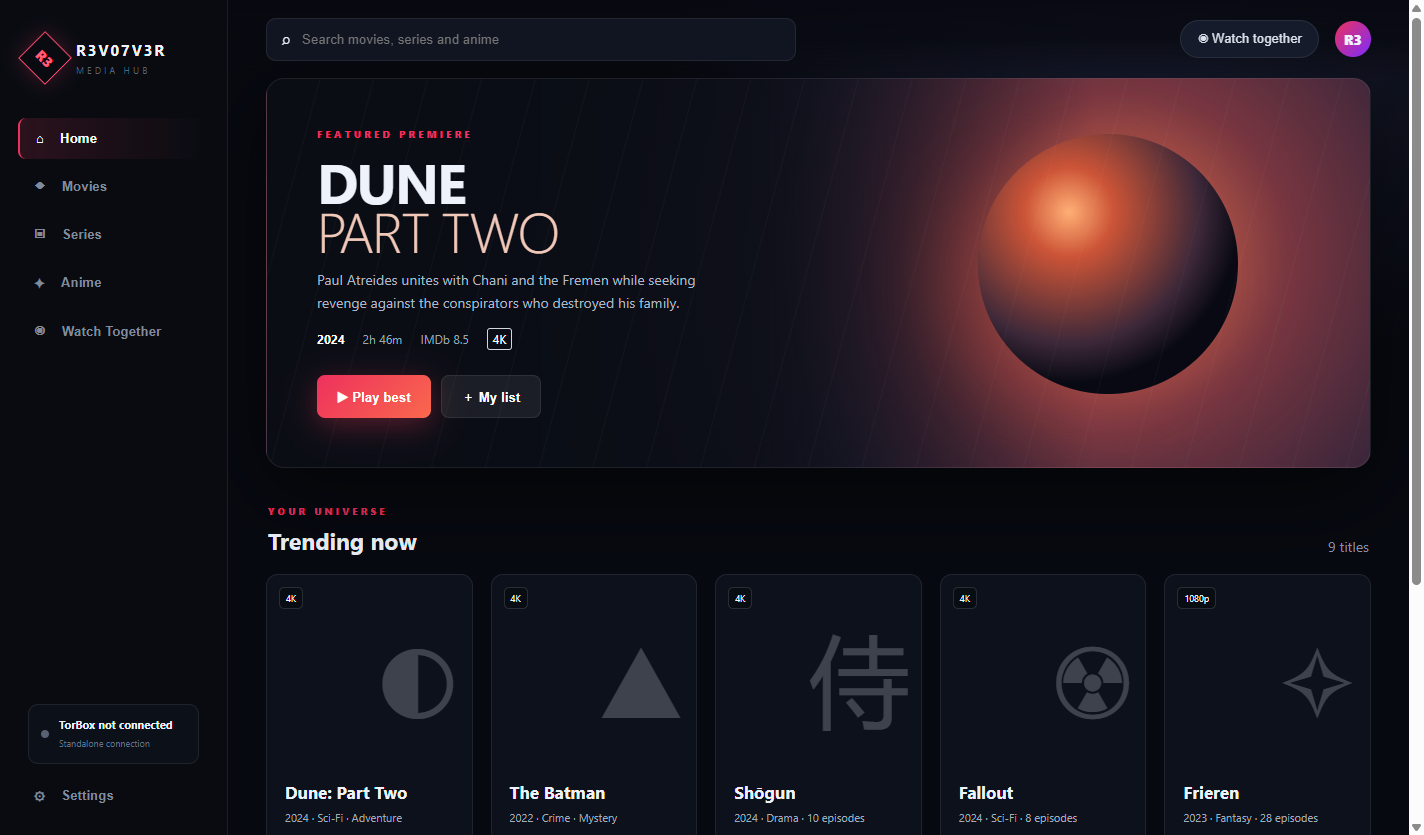
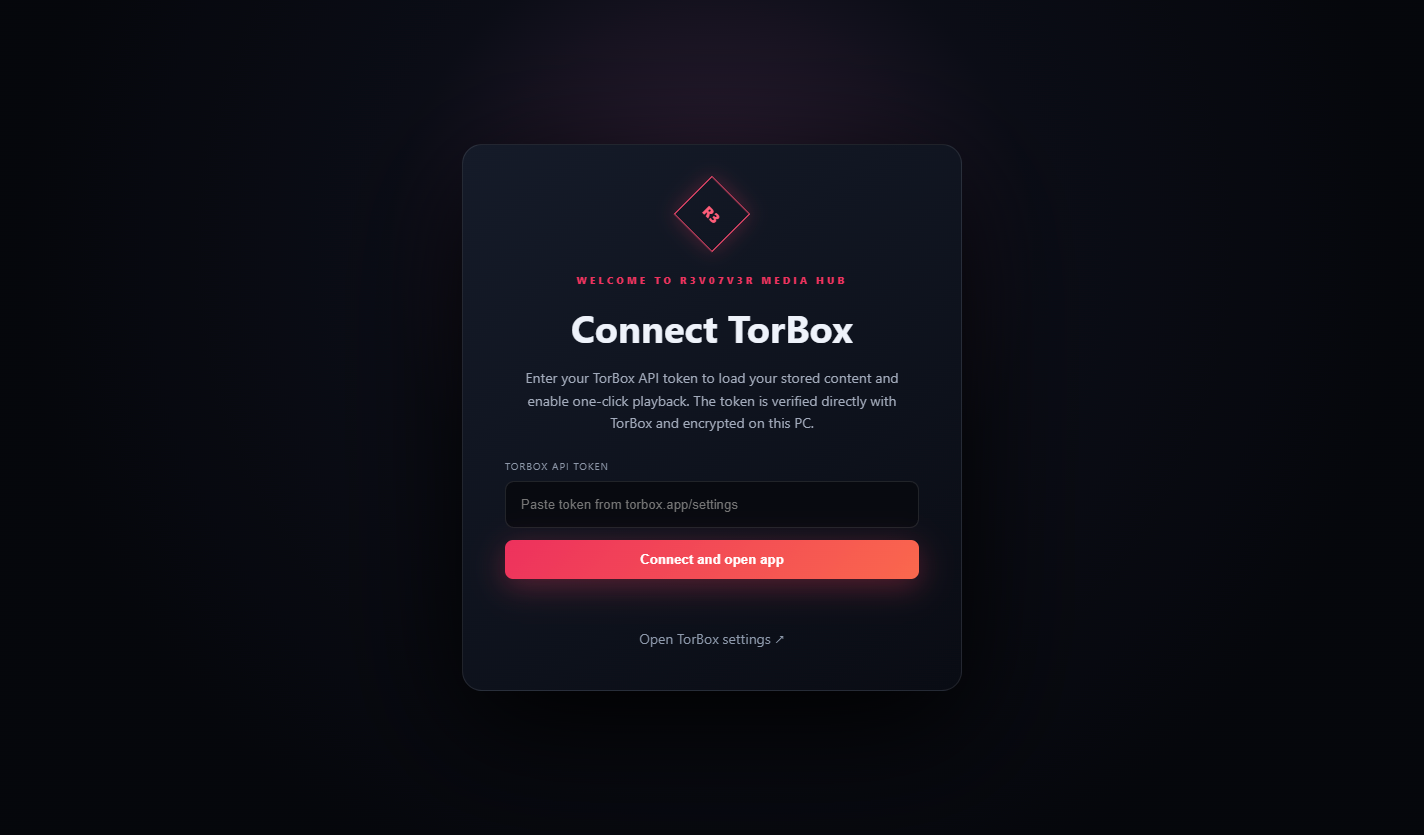
feat: replace demo data with live TorBox media flow

diff --git a/src/renderer.js b/src/renderer.js
@@ -1,19 +1,19 @@
-const catalog=[
-{title:'Dune: Part Two',type:'movie',year:2024,detail:'Sci-Fi · Adventure',symbol:'◐',c1:'#c76440',c2:'#262038',quality:'4K'},
-{title:'The Batman',type:'movie',year:2022,detail:'Crime · Mystery',symbol:'▲',c1:'#7e1d24',c2:'#0b0d14',quality:'4K'},
-{title:'Shōgun',type:'series',year:2024,detail:'Drama · 10 episodes',symbol:'侍',c1:'#a33724',c2:'#16151c',quality:'4K'},
-{title:'Fallout',type:'series',year:2024,detail:'Sci-Fi · 8 episodes',symbol:'☢',c1:'#dda637',c2:'#26354a',quality:'4K'},
-{title:'Frieren',type:'anime',year:2023,detail:'Fantasy · 28 episodes',symbol:'✧',c1:'#5e82b4',c2:'#25213c',quality:'1080p'},
-{title:'Solo Leveling',type:'anime',year:2024,detail:'Action · 12 episodes',symbol:'⚔',c1:'#5b39ac',c2:'#101a35',quality:'1080p'},
-{title:'Furiosa',type:'movie',year:2024,detail:'Action · Adventure',symbol:'☼',c1:'#c97631',c2:'#35221d',quality:'4K'},
-{title:'3 Body Problem',type:'series',year:2024,detail:'Sci-Fi · 8 episodes',symbol:'◎',c1:'#386879',c2:'#111926',quality:'4K'},
-{title:'Kaiju No. 8',type:'anime',year:2024,detail:'Action · 12 episodes',symbol:'怪',c1:'#3b725a',c2:'#1e2631',quality:'1080p'}];
-let section='home';
-const $=s=>document.querySelector(s);const $$=s=>[...document.querySelectorAll(s)];
-function render(){const q=$('#search').value.toLowerCase().trim();const list=catalog.filter(x=>(section==='home'||x.type===section)&&(!q||`${x.title} ${x.year}`.toLowerCase().includes(q)));$('#catalog').innerHTML=list.map(x=>`<article class="card" data-title="${x.title}"><div class="card-art" data-symbol="${x.symbol}" style="--c1:${x.c1};--c2:${x.c2}"><span class="badge">${x.quality}</span><div><h3>${x.title}</h3><p>${x.year} · ${x.detail}</p></div></div></article>`).join('');$('#resultCount').textContent=`${list.length} titles`;$('#sectionTitle').textContent=q?'Search results':section==='home'?'Trending now':section[0].toUpperCase()+section.slice(1);$$('.card').forEach(c=>c.onclick=()=>showTitle(c.dataset.title));}
-function showTitle(title){openModal(`<span class="eyebrow">READY TO RESOLVE</span><h2>${title}</h2><p>Connect your TorBox account to resolve cached sources and select the best compatible release automatically.</p><div class="button-row"><button class="primary" id="playModal">▶ Play best</button><button class="secondary">Browse sources</button></div><div class="status-line" id="playStatus"></div>`);$('#playModal').onclick=async()=>{const s=await window.mediaHub.settingsStatus();$('#playStatus').textContent=s.torboxConfigured?'TorBox is connected. Stream-source integration is the next build milestone.':'TorBox is not connected. Open Settings to add your API token.'}}
+const $=s=>document.querySelector(s);const $$=s=>[...document.querySelectorAll(s)];const esc=v=>String(v??'').replace(/[&<>"']/g,c=>({'&':'&amp;','<':'&lt;','>':'&gt;','"':'&quot;',"'":'&#39;'}[c]));
+let section='home',items=[],library=[];const cache={};
+function status(message,error=false){$('#connectStatus').textContent=message;$('#connectStatus').style.color=error?'#ff7893':''}
+async function start(){const result=await window.mediaHub.bootstrap();if(result.configured){library=Array.isArray(result.library)?result.library:[];showApp(result.user);await loadSection('home')}else{$('#onboarding').classList.remove('hidden');$('#app').classList.add('hidden');if(result.error)status(result.error,true)}}
+function showApp(user={}){$('#onboarding').classList.add('hidden');$('#app').classList.remove('hidden');$('#accountName').textContent=user.email||user.username||'TorBox connected'}
+$('#torboxLink').onclick=e=>{e.preventDefault();window.mediaHub.openExternal('https://torbox.app/settings')};
+$('#connectButton').onclick=async()=>{const button=$('#connectButton');button.disabled=true;button.textContent='Verifying with TorBox…';status('');const result=await window.mediaHub.connectTorBox($('#setupToken').value);button.disabled=false;button.textContent='Connect and open app';if(!result.ok)return status(result.message,true);showApp(result.user);const boot=await window.mediaHub.bootstrap();library=Array.isArray(boot.library)?boot.library:[];await loadSection('home')};
+$('#disconnect').onclick=async()=>{await window.mediaHub.disconnect();location.reload()};
+async function fetchCatalog(kind){if(!cache[kind])cache[kind]=await window.mediaHub.catalog(kind);return cache[kind]}
+async function loadSection(next,force=false){section=next;$('#search').value='';$('#loading').classList.remove('hidden');$('#catalog').innerHTML='';$('#hero').classList.add('hidden');try{if(next==='library'){library=await window.mediaHub.library();items=library.map((x,i)=>({id:String(x.id||x.torrent_id||i),title:x.name||x.filename||`TorBox item ${i+1}`,type:'library',year:x.download_state||x.state||'',poster:x.poster||'',raw:x}));$('#sectionEyebrow').textContent='YOUR TORBOX';$('#sectionTitle').textContent='Stored content'}else if(next==='home'){if(force){delete cache.movie;delete cache.series;delete cache.anime}const [m,s,a]=await Promise.all([fetchCatalog('movie'),fetchCatalog('series'),fetchCatalog('anime')]);items=[...m.slice(0,15),...s.slice(0,15),...a.slice(0,15)];$('#sectionEyebrow').textContent='LIVE CATALOGS';$('#sectionTitle').textContent='Trending across everything';renderHero(items[0])}else{if(force)delete cache[next];items=await fetchCatalog(next);$('#sectionEyebrow').textContent='LIVE CATALOG';$('#sectionTitle').textContent=next==='movie'?'Movies':next==='series'?'Series':'Anime';renderHero(items[0])}render()}catch(error){showError(error.message)}finally{$('#loading').classList.add('hidden')}}
+function renderHero(item){if(!item)return;const hero=$('#hero');hero.classList.remove('hidden');hero.innerHTML=`<div class="hero-live" style="background-image:url('${esc(item.background||item.poster)}')"><div class="hero-copy"><span class="eyebrow">LIVE FEATURED TITLE</span><h1>${esc(item.title)}</h1><p>${esc(item.description||'Open this title for full details and available TorBox streams.')}</p><div class="meta"><b>${esc(item.year)}</b>${item.rating?`<span>IMDb ${esc(item.rating)}</span>`:''}<span>${esc(item.type.toUpperCase())}</span></div><div class="actions"><button class="primary" id="featuredOpen">▶ Open title</button></div></div></div>`;$('#featuredOpen').onclick=()=>openItem(item)}
+function render(){const q=$('#search').value.trim().toLowerCase();const visible=items.filter(x=>!q||`${x.title} ${x.year}`.toLowerCase().includes(q));$('#resultCount').textContent=`${visible.length} titles`;$('#catalog').innerHTML=visible.map((x,i)=>`<article class="card" data-index="${items.indexOf(x)}"><div class="card-art ${x.poster?'':'poster-fallback'}" style="${x.poster?`background-image:linear-gradient(0deg,#080a0ff5 0,transparent 67%),url('${esc(x.poster)}')`:''}"><span class="badge">${esc(x.type==='library'?(x.year||'TORBOX'):x.type.toUpperCase())}</span><div><h3>${esc(x.title)}</h3><p>${esc(x.year||'Available in TorBox')}</p></div></div></article>`).join('')||'<div class="error-box">No matching live titles were returned.</div>';$$('.card').forEach(card=>card.onclick=()=>openItem(items[Number(card.dataset.index)]))}
+async function openItem(item){if(item.type==='library')return playLibrary(item);openModal('<div class="loading">Loading title details…</div>');try{const meta=await window.mediaHub.meta(item.type,item.id);const episodes=(meta.videos||[]).filter(v=>(v.season??1)>0);const bg=meta.background||meta.poster;$('#modalBody').innerHTML=`<div class="detail-head" style="background-image:url('${esc(bg)}')"><div class="detail-copy"><span class="eyebrow">${esc(meta.type.toUpperCase())}</span><h2>${esc(meta.title)}</h2><div class="meta"><b>${esc(meta.year)}</b>${meta.rating?`<span>IMDb ${esc(meta.rating)}</span>`:''}</div></div></div><p>${esc(meta.description)}</p>${episodes.length?`<label>EPISODE</label><select id="episodeSelect" class="episode-select">${episodes.map((v,i)=>`<option value="${i}">S${v.season||1} E${v.episode||v.number||i+1} — ${esc(v.title||v.name||'Episode')}</option>`).join('')}</select>`:''}<div class="button-row"><button class="primary" id="playBest">▶ Play best</button></div><div class="status-line" id="playStatus"></div><div class="source-list" id="sourceList"></div>`;$('#playBest').onclick=()=>playBest(meta,episodes)}catch(error){showModalError(error.message)}}
+async function playBest(meta,episodes){const button=$('#playBest');button.disabled=true;button.textContent='Finding cached TorBox streams…';$('#playStatus').textContent='Querying Meteor and TorBox…';try{let id=meta.id;if(episodes.length)id=episodes[Number($('#episodeSelect').value)||0].id;const result=await window.mediaHub.resolve(meta.type,id);if(!result.best)throw new Error('No cached playable TorBox stream was returned for this title.');$('#sourceList').innerHTML=result.streams.slice(0,8).map(s=>`<div class="source">${esc(s.name||'TorBox stream')}<br>${esc(s.title||s.description||'')}</div>`).join('');$('#playStatus').textContent=`Opening best of ${result.streams.length} available streams…`;await window.mediaHub.play(result.best.url);$('#playStatus').textContent='Playback opened in your default video player.'}catch(error){$('#playStatus').textContent=error.message;$('#playStatus').style.color='#ff7893'}finally{button.disabled=false;button.textContent='▶ Play best'}}
+async function playLibrary(item){openModal(`<span class="eyebrow">YOUR TORBOX</span><h2>${esc(item.title)}</h2><p>This opens the largest video file in this completed TorBox item.</p><button class="primary" id="libraryPlay">▶ Play now</button><div class="status-line" id="libraryStatus"></div>`);$('#libraryPlay').onclick=async()=>{const b=$('#libraryPlay');b.disabled=true;b.textContent='Requesting stream…';try{await window.mediaHub.playLibrary(item.raw);$('#libraryStatus').textContent='Playback opened in your default video player.'}catch(error){$('#libraryStatus').textContent=error.message;$('#libraryStatus').style.color='#ff7893'}finally{b.disabled=false;b.textContent='▶ Play now'}}}
+function showError(message){$('#catalog').innerHTML=`<div class="error-box">${esc(message)}<br><button class="secondary" id="retryLoad">Retry</button></div>`;$('#retryLoad').onclick=()=>loadSection(section,true)}
 function openModal(html){$('#modalBody').innerHTML=html;$('#modal').classList.remove('hidden')}
-function settings(){openModal(`<span class="eyebrow">BACKEND CONNECTION</span><h2>Connect TorBox</h2><p>Your token is verified directly with TorBox and encrypted using Windows data protection. It is never sent to a media server.</p><div class="field"><label>TORBOX API TOKEN</label><input id="torboxToken" type="password" placeholder="Paste your TorBox API token"></div><div class="button-row"><button class="primary" id="saveToken">Verify & save</button><button class="secondary" id="testToken">Test saved connection</button></div><div class="status-line" id="settingsStatus"></div>`);$('#saveToken').onclick=async()=>{const b=$('#saveToken');b.disabled=true;b.textContent='Checking…';const r=await window.mediaHub.saveTorBox($('#torboxToken').value);$('#settingsStatus').textContent=r.message;b.disabled=false;b.textContent='Verify & save';refreshStatus();};$('#testToken').onclick=async()=>{$('#settingsStatus').textContent='Testing…';const r=await window.mediaHub.testTorBox();$('#settingsStatus').textContent=r.message;refreshStatus();}}
-function party(){const alphabet='ABCDEFGHJKLMNPQRSTUVWXYZ23456789';let raw='';for(let i=0;i<6;i++)raw+=alphabet[Math.floor(Math.random()*alphabet.length)];const code=raw.slice(0,3)+'-'+raw.slice(3);openModal(`<span class="eyebrow">WATCH TOGETHER</span><h2>Start a watch party</h2><p>Share this temporary room code with a friend using the same app. Playback synchronization requires the upcoming encrypted rendezvous service.</p><div class="room-code">${code}</div><div class="field"><label>OR JOIN A FRIEND</label><input id="joinCode" maxlength="7" placeholder="ABC-234"></div><div class="button-row"><button class="primary" id="joinRoom">Join room</button><button class="secondary" id="copyCode">Copy code</button></div><div class="status-line" id="partyStatus"></div>`);$('#copyCode').onclick=()=>{navigator.clipboard.writeText(code);$('#partyStatus').textContent='Code copied.'};$('#joinRoom').onclick=()=>{$('#partyStatus').textContent='Online watch-party synchronization is not enabled in this test build.'}}
-async function refreshStatus(){const s=await window.mediaHub.settingsStatus();$('#torboxDot').classList.toggle('on',s.torboxConfigured);$('#torboxState').textContent=s.torboxConfigured?'TorBox configured':'TorBox not connected'}
-$$('.nav-item[data-section]').forEach(b=>b.onclick=()=>{section=b.dataset.section;$$('.nav-item').forEach(x=>x.classList.remove('active'));b.classList.add('active');render()});$$('[data-action=settings]').forEach(b=>b.onclick=settings);$$('[data-action=party]').forEach(b=>b.onclick=party);$('#search').oninput=render;$('#closeModal').onclick=()=>$('#modal').classList.add('hidden');$('#modal').onclick=e=>{if(e.target===$('#modal'))$('#modal').classList.add('hidden')};$('#heroPlay').onclick=()=>showTitle('Dune: Part Two');render();refreshStatus();
+function showModalError(message){openModal(`<div class="error-box">${esc(message)}</div>`)}
+$$('.nav-item[data-section]').forEach(b=>b.onclick=()=>{$$('.nav-item').forEach(x=>x.classList.remove('active'));b.classList.add('active');loadSection(b.dataset.section)});$('#search').oninput=render;$('#refresh').onclick=()=>loadSection(section,true);$('#closeModal').onclick=()=>$('#modal').classList.add('hidden');$('#modal').onclick=e=>{if(e.target===$('#modal'))$('#modal').classList.add('hidden')};start();

diff --git a/src/index.html b/src/index.html
@@ -1,7 +1,5 @@
-<!doctype html><html lang="en"><head><meta charset="UTF-8"><meta name="viewport" content="width=device-width,initial-scale=1"><meta http-equiv="Content-Security-Policy" content="default-src 'self'; img-src 'self' https: data:; style-src 'self'; script-src 'self'; connect-src https://api.torbox.app"><title>R3V07V3R Media Hub</title><link rel="stylesheet" href="styles.css"></head><body>
-<div class="app-shell"><aside class="sidebar"><div class="brand"><div class="brandmark">R3</div><div><strong>R3V07V3R</strong><span>MEDIA HUB</span></div></div><nav id="nav"><button class="nav-item active" data-section="home">⌂ <span>Home</span></button><button class="nav-item" data-section="movie">◆ <span>Movies</span></button><button class="nav-item" data-section="series">▣ <span>Series</span></button><button class="nav-item" data-section="anime">✦ <span>Anime</span></button><button class="nav-item" data-action="party">◉ <span>Watch Together</span></button></nav><div class="sidebar-bottom"><div class="connection"><i id="torboxDot"></i><div><b id="torboxState">TorBox not connected</b><small>Standalone connection</small></div></div><button class="nav-item" data-action="settings">⚙ <span>Settings</span></button></div></aside>
-<main><header><div class="search"><span>⌕</span><input id="search" placeholder="Search movies, series and anime"></div><button class="party-pill" data-action="party">◉ Watch together</button><div class="avatar">R3</div></header>
-<section id="content"><div class="hero"><div class="hero-copy"><span class="eyebrow">FEATURED PREMIERE</span><h1>DUNE<br><em>PART TWO</em></h1><p>Paul Atreides unites with Chani and the Fremen while seeking revenge against the conspirators who destroyed his family.</p><div class="meta"><b>2024</b><span>2h 46m</span><span>IMDb 8.5</span><span class="quality">4K</span></div><div class="actions"><button class="primary" id="heroPlay">▶ Play best</button><button class="secondary">＋ My list</button></div></div><div class="orbital"></div></div>
-<div class="section-head"><div><span class="eyebrow" id="sectionEyebrow">YOUR UNIVERSE</span><h2 id="sectionTitle">Trending now</h2></div><span id="resultCount"></span></div><div class="catalog" id="catalog"></div></section>
-</main></div>
-<div class="modal-backdrop hidden" id="modal"><div class="modal"><button class="close" id="closeModal">×</button><div id="modalBody"></div></div></div><div id="toast" class="toast"></div><script src="renderer.js"></script></body></html>
+<!doctype html><html lang="en"><head><meta charset="UTF-8"><meta name="viewport" content="width=device-width,initial-scale=1"><meta http-equiv="Content-Security-Policy" content="default-src 'self'; img-src 'self' https: data:; style-src 'self'; script-src 'self'; connect-src 'self'"><title>R3V07V3R Media Hub</title><link rel="stylesheet" href="styles.css"></head><body>
+<div id="onboarding" class="onboarding"><div class="connect-card"><div class="brandmark big">R3</div><span class="eyebrow">WELCOME TO R3V07V3R MEDIA HUB</span><h1>Connect TorBox</h1><p>Enter your TorBox API token to load your stored content and enable one-click playback. The token is verified directly with TorBox and encrypted on this PC.</p><label>TORBOX API TOKEN</label><input id="setupToken" type="password" autocomplete="off" placeholder="Paste token from torbox.app/settings"><button class="primary wide" id="connectButton">Connect and open app</button><div id="connectStatus" class="status-line"></div><a href="https://torbox.app/settings" id="torboxLink">Open TorBox settings ↗</a></div></div>
+<div id="app" class="app-shell hidden"><aside class="sidebar"><div class="brand"><div class="brandmark">R3</div><div><strong>R3V07V3R</strong><span>MEDIA HUB</span></div></div><nav><button class="nav-item active" data-section="home">⌂ <span>Home</span></button><button class="nav-item" data-section="movie">◆ <span>Movies</span></button><button class="nav-item" data-section="series">▣ <span>Series</span></button><button class="nav-item" data-section="anime">✦ <span>Anime</span></button><button class="nav-item" data-section="library">↓ <span>My TorBox</span></button></nav><div class="sidebar-bottom"><div class="connection"><i class="on"></i><div><b id="accountName">TorBox connected</b><small>Direct secure connection</small></div></div><button class="nav-item" id="disconnect">⇥ <span>Disconnect</span></button></div></aside>
+<main><header><div class="search"><span>⌕</span><input id="search" placeholder="Filter the live catalog"></div><button class="refresh" id="refresh">↻ Refresh</button><div class="avatar">R3</div></header><section id="content"><div id="hero" class="hero hidden"></div><div class="section-head"><div><span class="eyebrow" id="sectionEyebrow">LIVE CATALOG</span><h2 id="sectionTitle">Home</h2></div><span id="resultCount"></span></div><div id="loading" class="loading">Loading live content…</div><div class="catalog" id="catalog"></div></section></main></div>
+<div class="modal-backdrop hidden" id="modal"><div class="modal detail-modal"><button class="close" id="closeModal">×</button><div id="modalBody"></div></div></div><div id="toast" class="toast"></div><script src="renderer.js"></script></body></html>

diff --git a/src/styles.css b/src/styles.css
@@ -1,1 +1,1 @@
-:root{--bg:#070910;--panel:#0d111c;--panel2:#121827;--line:rgba(255,255,255,.08);--text:#eef2fa;--muted:#8993a7;--accent:#ed315d;--accent2:#ff7648;--cyan:#65e6dc}*{box-sizing:border-box}body{margin:0;background:radial-gradient(circle at 80% -10%,#1d2037 0,transparent 34%),var(--bg);color:var(--text);font:14px Inter,Segoe UI,sans-serif;overflow:hidden}.app-shell{display:grid;grid-template-columns:228px 1fr;height:100vh}.sidebar{background:rgba(8,11,18,.92);border-right:1px solid var(--line);padding:23px 18px 18px;display:flex;flex-direction:column;-webkit-app-region:drag}.brand{height:70px;display:flex;align-items:center;gap:12px;padding:0 8px}.brandmark{width:38px;height:38px;border:1px solid #fd496f;display:grid;place-items:center;font-weight:900;transform:rotate(45deg);color:#ff5d79;box-shadow:0 0 20px #ed315d44}.brandmark::first-line{transform:rotate(-45deg)}.brand strong{font-size:15px;letter-spacing:2px}.brand span{display:block;color:#59647a;font-size:9px;letter-spacing:3px;margin-top:4px}nav{margin-top:25px;display:grid;gap:6px}.nav-item{border:0;background:none;color:#818b9e;display:flex;gap:16px;align-items:center;padding:13px 16px;border-radius:8px;text-align:left;font-weight:600;-webkit-app-region:no-drag;cursor:pointer}.nav-item:hover,.nav-item.active{background:linear-gradient(90deg,#ed315d26,transparent);color:white}.nav-item.active{border-left:2px solid var(--accent)}.sidebar-bottom{margin-top:auto}.connection{display:flex;gap:10px;align-items:center;margin:10px;padding:12px;background:#0c1019;border:1px solid var(--line);border-radius:10px}.connection i{width:8px;height:8px;border-radius:50%;background:#596273}.connection i.on{background:#42e09b;box-shadow:0 0 10px #42e09b}.connection b{font-size:11px;display:block}.connection small{color:#657086;font-size:9px}main{overflow:auto}header{height:78px;padding:18px 38px;display:flex;gap:16px;align-items:center;position:sticky;top:0;z-index:5;background:linear-gradient(#070910f5,#070910cc,transparent);-webkit-app-region:drag}.search{width:min(530px,50vw);height:43px;background:#101521;border:1px solid var(--line);border-radius:10px;display:flex;align-items:center;padding:0 15px;gap:10px;-webkit-app-region:no-drag}.search input{width:100%;background:none;border:0;outline:0;color:white}.party-pill,.avatar{margin-left:auto;-webkit-app-region:no-drag}.party-pill{background:#151b2a;border:1px solid var(--line);border-radius:20px;color:#dce2ed;padding:10px 16px;cursor:pointer}.avatar{margin-left:0;width:36px;height:36px;border-radius:50%;display:grid;place-items:center;background:linear-gradient(135deg,var(--accent),#7d2cff);font-weight:800}#content{padding:0 38px 45px}.hero{height:390px;border-radius:18px;position:relative;overflow:hidden;background:linear-gradient(90deg,#0a0d15 5%,#0b0e17e8 45%,transparent 75%),radial-gradient(circle at 78% 45%,#df704a 0,#783640 18%,#252038 42%,#090b12 67%);border:1px solid var(--line);box-shadow:0 20px 80px #0008}.hero:after{content:"";position:absolute;inset:0;background:repeating-linear-gradient(105deg,transparent 0 50px,#ffffff05 51px 52px);pointer-events:none}.hero-copy{position:absolute;z-index:2;left:50px;top:44px;width:480px}.eyebrow{color:var(--accent);font-size:10px;font-weight:800;letter-spacing:3px}.hero h1{font-size:56px;line-height:.87;letter-spacing:-2px;margin:15px 0}.hero h1 em{font-style:normal;font-weight:300;color:#f1c9b9}.hero p{color:#aeb5c3;line-height:1.6;width:430px}.meta{display:flex;gap:18px;align-items:center;color:#9ca5b6;font-size:12px}.meta b{color:#fff}.quality{border:1px solid #d1d6df;padding:2px 5px;border-radius:3px;color:#fff}.actions{display:flex;gap:10px;margin-top:25px}.primary,.secondary{border:0;border-radius:8px;padding:12px 20px;font-weight:700;cursor:pointer}.primary{color:#fff;background:linear-gradient(135deg,var(--accent),#fa684d);box-shadow:0 8px 30px #ed315d55}.secondary{background:#ffffff12;border:1px solid var(--line);color:white}.orbital{position:absolute;width:260px;height:260px;border-radius:50%;right:12%;top:55px;background:radial-gradient(circle at 35% 30%,#ffaf75,#cc5437 18%,#3c2839 53%,#080912 69%);box-shadow:-30px 20px 80px #ef604955}.section-head{display:flex;justify-content:space-between;align-items:end;margin:32px 2px 18px}.section-head h2{font-size:23px;margin:6px 0 0}.section-head>span{color:var(--muted)}.catalog{display:grid;grid-template-columns:repeat(auto-fill,minmax(170px,1fr));gap:18px}.card{position:relative;height:270px;border-radius:12px;overflow:hidden;background:var(--panel);border:1px solid var(--line);cursor:pointer;transition:.2s}.card:hover{transform:translateY(-5px);border-color:#ed315d99;box-shadow:0 15px 40px #000}.card-art{height:100%;padding:18px;display:flex;align-items:flex-end;background:linear-gradient(0deg,#080a0ff5 0,transparent 67%),linear-gradient(145deg,var(--c1),var(--c2));position:relative}.card-art:before{content:attr(data-symbol);position:absolute;font-size:100px;opacity:.22;right:12px;top:35px}.card h3{margin:0 0 7px;font-size:17px}.card p{margin:0;color:#a3acbb;font-size:11px}.badge{position:absolute;top:12px;left:12px;background:#070910bb;border:1px solid #ffffff22;border-radius:5px;padding:4px 6px;font-size:9px}.modal-backdrop{position:fixed;inset:0;z-index:10;background:#03050bd9;display:grid;place-items:center;backdrop-filter:blur(12px)}.hidden{display:none}.modal{width:min(560px,90vw);background:linear-gradient(145deg,#151b29,#0b0e16);border:1px solid #ffffff18;border-radius:18px;padding:34px;position:relative;box-shadow:0 30px 100px #000}.close{position:absolute;right:15px;top:12px;background:none;border:0;color:#929bad;font-size:28px;cursor:pointer}.modal h2{font-size:28px;margin:8px 0}.modal p{color:#929cad;line-height:1.6}.field{margin:20px 0}.field label{display:block;font-size:11px;color:#8f99aa;margin-bottom:8px}.field input{width:100%;padding:13px;background:#080b12;border:1px solid #ffffff18;border-radius:8px;color:white;outline:0}.field input:focus{border-color:var(--accent)}.room-code{font:800 42px Consolas,monospace;letter-spacing:5px;text-align:center;padding:24px;border:1px dashed #ed315d88;border-radius:12px;background:#ed315d0b;margin:22px 0}.button-row{display:flex;gap:10px}.status-line{min-height:22px;margin-top:14px;color:var(--cyan)}.toast{position:fixed;right:25px;bottom:25px;z-index:20;background:#171e2d;border:1px solid #ffffff18;padding:14px 18px;border-radius:10px;opacity:0;transform:translateY(15px);transition:.2s}.toast.show{opacity:1;transform:none}@media(max-width:1050px){.app-shell{grid-template-columns:76px 1fr}.brand>div:not(.brandmark),.nav-item span,.connection div{display:none}.sidebar{padding:20px 10px}.nav-item{justify-content:center}.connection{justify-content:center}.hero-copy{left:35px}.orbital{right:-5%}}
+:root{--bg:#070910;--panel:#0d111c;--panel2:#121827;--line:rgba(255,255,255,.08);--text:#eef2fa;--muted:#8993a7;--accent:#ed315d;--accent2:#ff7648;--cyan:#65e6dc}*{box-sizing:border-box}body{margin:0;background:radial-gradient(circle at 80% -10%,#1d2037 0,transparent 34%),var(--bg);color:var(--text);font:14px Inter,Segoe UI,sans-serif;overflow:hidden}.app-shell{display:grid;grid-template-columns:228px 1fr;height:100vh}.sidebar{background:rgba(8,11,18,.92);border-right:1px solid var(--line);padding:23px 18px 18px;display:flex;flex-direction:column;-webkit-app-region:drag}.brand{height:70px;display:flex;align-items:center;gap:12px;padding:0 8px}.brandmark{width:38px;height:38px;border:1px solid #fd496f;display:grid;place-items:center;font-weight:900;transform:rotate(45deg);color:#ff5d79;box-shadow:0 0 20px #ed315d44}.brandmark::first-line{transform:rotate(-45deg)}.brand strong{font-size:15px;letter-spacing:2px}.brand span{display:block;color:#59647a;font-size:9px;letter-spacing:3px;margin-top:4px}nav{margin-top:25px;display:grid;gap:6px}.nav-item{border:0;background:none;color:#818b9e;display:flex;gap:16px;align-items:center;padding:13px 16px;border-radius:8px;text-align:left;font-weight:600;-webkit-app-region:no-drag;cursor:pointer}.nav-item:hover,.nav-item.active{background:linear-gradient(90deg,#ed315d26,transparent);color:white}.nav-item.active{border-left:2px solid var(--accent)}.sidebar-bottom{margin-top:auto}.connection{display:flex;gap:10px;align-items:center;margin:10px;padding:12px;background:#0c1019;border:1px solid var(--line);border-radius:10px}.connection i{width:8px;height:8px;border-radius:50%;background:#596273}.connection i.on{background:#42e09b;box-shadow:0 0 10px #42e09b}.connection b{font-size:11px;display:block}.connection small{color:#657086;font-size:9px}main{overflow:auto}header{height:78px;padding:18px 38px;display:flex;gap:16px;align-items:center;position:sticky;top:0;z-index:5;background:linear-gradient(#070910f5,#070910cc,transparent);-webkit-app-region:drag}.search{width:min(530px,50vw);height:43px;background:#101521;border:1px solid var(--line);border-radius:10px;display:flex;align-items:center;padding:0 15px;gap:10px;-webkit-app-region:no-drag}.search input{width:100%;background:none;border:0;outline:0;color:white}.party-pill,.avatar{margin-left:auto;-webkit-app-region:no-drag}.party-pill{background:#151b2a;border:1px solid var(--line);border-radius:20px;color:#dce2ed;padding:10px 16px;cursor:pointer}.avatar{margin-left:0;width:36px;height:36px;border-radius:50%;display:grid;place-items:center;background:linear-gradient(135deg,var(--accent),#7d2cff);font-weight:800}#content{padding:0 38px 45px}.hero{height:390px;border-radius:18px;position:relative;overflow:hidden;background:linear-gradient(90deg,#0a0d15 5%,#0b0e17e8 45%,transparent 75%),radial-gradient(circle at 78% 45%,#df704a 0,#783640 18%,#252038 42%,#090b12 67%);border:1px solid var(--line);box-shadow:0 20px 80px #0008}.hero:after{content:"";position:absolute;inset:0;background:repeating-linear-gradient(105deg,transparent 0 50px,#ffffff05 51px 52px);pointer-events:none}.hero-copy{position:absolute;z-index:2;left:50px;top:44px;width:480px}.eyebrow{color:var(--accent);font-size:10px;font-weight:800;letter-spacing:3px}.hero h1{font-size:56px;line-height:.87;letter-spacing:-2px;margin:15px 0}.hero h1 em{font-style:normal;font-weight:300;color:#f1c9b9}.hero p{color:#aeb5c3;line-height:1.6;width:430px}.meta{display:flex;gap:18px;align-items:center;color:#9ca5b6;font-size:12px}.meta b{color:#fff}.quality{border:1px solid #d1d6df;padding:2px 5px;border-radius:3px;color:#fff}.actions{display:flex;gap:10px;margin-top:25px}.primary,.secondary{border:0;border-radius:8px;padding:12px 20px;font-weight:700;cursor:pointer}.primary{color:#fff;background:linear-gradient(135deg,var(--accent),#fa684d);box-shadow:0 8px 30px #ed315d55}.secondary{background:#ffffff12;border:1px solid var(--line);color:white}.orbital{position:absolute;width:260px;height:260px;border-radius:50%;right:12%;top:55px;background:radial-gradient(circle at 35% 30%,#ffaf75,#cc5437 18%,#3c2839 53%,#080912 69%);box-shadow:-30px 20px 80px #ef604955}.section-head{display:flex;justify-content:space-between;align-items:end;margin:32px 2px 18px}.section-head h2{font-size:23px;margin:6px 0 0}.section-head>span{color:var(--muted)}.catalog{display:grid;grid-template-columns:repeat(auto-fill,minmax(170px,1fr));gap:18px}.card{position:relative;height:270px;border-radius:12px;overflow:hidden;background:var(--panel);border:1px solid var(--line);cursor:pointer;transition:.2s}.card:hover{transform:translateY(-5px);border-color:#ed315d99;box-shadow:0 15px 40px #000}.card-art{height:100%;padding:18px;display:flex;align-items:flex-end;background:linear-gradient(0deg,#080a0ff5 0,transparent 67%),linear-gradient(145deg,var(--c1),var(--c2));position:relative}.card-art:before{content:attr(data-symbol);position:absolute;font-size:100px;opacity:.22;right:12px;top:35px}.card h3{margin:0 0 7px;font-size:17px}.card p{margin:0;color:#a3acbb;font-size:11px}.badge{position:absolute;top:12px;left:12px;background:#070910bb;border:1px solid #ffffff22;border-radius:5px;padding:4px 6px;font-size:9px}.modal-backdrop{position:fixed;inset:0;z-index:10;background:#03050bd9;display:grid;place-items:center;backdrop-filter:blur(12px)}.hidden{display:none}.modal{width:min(560px,90vw);background:linear-gradient(145deg,#151b29,#0b0e16);border:1px solid #ffffff18;border-radius:18px;padding:34px;position:relative;box-shadow:0 30px 100px #000}.close{position:absolute;right:15px;top:12px;background:none;border:0;color:#929bad;font-size:28px;cursor:pointer}.modal h2{font-size:28px;margin:8px 0}.modal p{color:#929cad;line-height:1.6}.field{margin:20px 0}.field label{display:block;font-size:11px;color:#8f99aa;margin-bottom:8px}.field input{width:100%;padding:13px;background:#080b12;border:1px solid #ffffff18;border-radius:8px;color:white;outline:0}.field input:focus{border-color:var(--accent)}.room-code{font:800 42px Consolas,monospace;letter-spacing:5px;text-align:center;padding:24px;border:1px dashed #ed315d88;border-radius:12px;background:#ed315d0b;margin:22px 0}.button-row{display:flex;gap:10px}.status-line{min-height:22px;margin-top:14px;color:var(--cyan)}.toast{position:fixed;right:25px;bottom:25px;z-index:20;background:#171e2d;border:1px solid #ffffff18;padding:14px 18px;border-radius:10px;opacity:0;transform:translateY(15px);transition:.2s}.toast.show{opacity:1;transform:none}.onboarding{position:fixed;inset:0;z-index:50;display:grid;place-items:center;background:radial-gradient(circle at 50% 30%,#342039 0,#0b0d16 35%,#05070c 75%)}.connect-card{width:min(500px,90vw);padding:42px;background:linear-gradient(145deg,#151b29,#090c14);border:1px solid #ffffff17;border-radius:20px;box-shadow:0 35px 120px #000;text-align:center}.connect-card .big{margin:0 auto 28px;width:54px;height:54px}.connect-card h1{font-size:38px;margin:14px 0}.connect-card p{color:#a1aabb;line-height:1.6}.connect-card label{display:block;text-align:left;color:#8e98aa;font-size:10px;letter-spacing:1px;margin:24px 0 8px}.connect-card input{width:100%;padding:15px;background:#070a11;border:1px solid #ffffff1b;border-radius:9px;color:white;outline:none}.connect-card input:focus{border-color:var(--accent)}.wide{width:100%;margin-top:12px}.connect-card a{display:inline-block;margin-top:14px;color:#8e99ac;text-decoration:none}.refresh{margin-left:auto;-webkit-app-region:no-drag;background:#151b2a;border:1px solid var(--line);border-radius:8px;color:#dce2ed;padding:10px 15px;cursor:pointer}.hero-live{position:absolute;inset:0;background-size:cover;background-position:center}.hero-live:after{content:"";position:absolute;inset:0;background:linear-gradient(90deg,#080b12f7 3%,#080b12dc 44%,#080b1230 76%)}.hero-live .hero-copy{max-height:320px}.catalog .card-art{background-size:cover;background-position:center}.poster-fallback{background:linear-gradient(145deg,#2f3850,#11151f)!important}.detail-head{min-height:260px;margin:-34px -34px 24px;padding:50px 34px 25px;display:flex;align-items:flex-end;background-size:cover;background-position:center;position:relative}.detail-head:after{content:"";position:absolute;inset:0;background:linear-gradient(0deg,#111725 3%,#11172580 65%,#11172522)}.detail-copy{position:relative;z-index:1}.detail-copy h2{font-size:34px;margin:7px 0}.episode-select{width:100%;padding:13px;background:#080b12;border:1px solid #ffffff18;border-radius:8px;color:white;margin:12px 0 18px}.source-list{display:grid;gap:8px;margin-top:15px;max-height:220px;overflow:auto}.source{padding:10px 12px;border:1px solid #ffffff12;border-radius:7px;background:#080b12;color:#bbc3d2;font-size:11px}.loading{padding:60px;text-align:center;color:#8c96a8}.error-box{padding:24px;border:1px solid #ed315d55;background:#ed315d0c;border-radius:10px;color:#f1a6b6}.hidden{display:none!important}@media(max-width:1050px){.app-shell{grid-template-columns:76px 1fr}.brand>div:not(.brandmark),.nav-item span,.connection div{display:none}.sidebar{padding:20px 10px}.nav-item{justify-content:center}.connection{justify-content:center}.hero-copy{left:35px}.orbital{right:-5%}}

diff --git a/README.md b/README.md
@@ -1,5 +1,25 @@
 # R3V07V3R Media Hub
 
-Standalone Windows/Linux/Android/TV-oriented media client project using catalog APIs, Stremio-compatible stream sources and TorBox as the download/stream backend.
+Standalone Windows media client using TorBox as its account and playback backend. It does not connect to or depend on a personal media server.
 
-This initial Windows vertical slice includes the application shell, local demo catalog, TorBox account configuration surface, stream-ranking core and watch-party pairing UI. It has no media-server dependency.
+## Current Windows build
+
+- Mandatory first-run TorBox API-token onboarding
+- Token verification against TorBox and Windows-encrypted local storage
+- Live Movies and Series catalogs from Cinemeta
+- Live Anime catalog and episode metadata from Anime Kitsu
+- TorBox stored-content list
+- Meteor stream resolution using the connected TorBox account
+- Automatic best playable cached stream selection
+- Direct playback in VLC on Windows
+
+## Development
+
+```bash
+npm install
+npm test
+npm start
+npm run pack:win
+```
+
+The project is tracked in Git on the `main` branch. GitHub publishing requires GitHub authentication on the development PC.